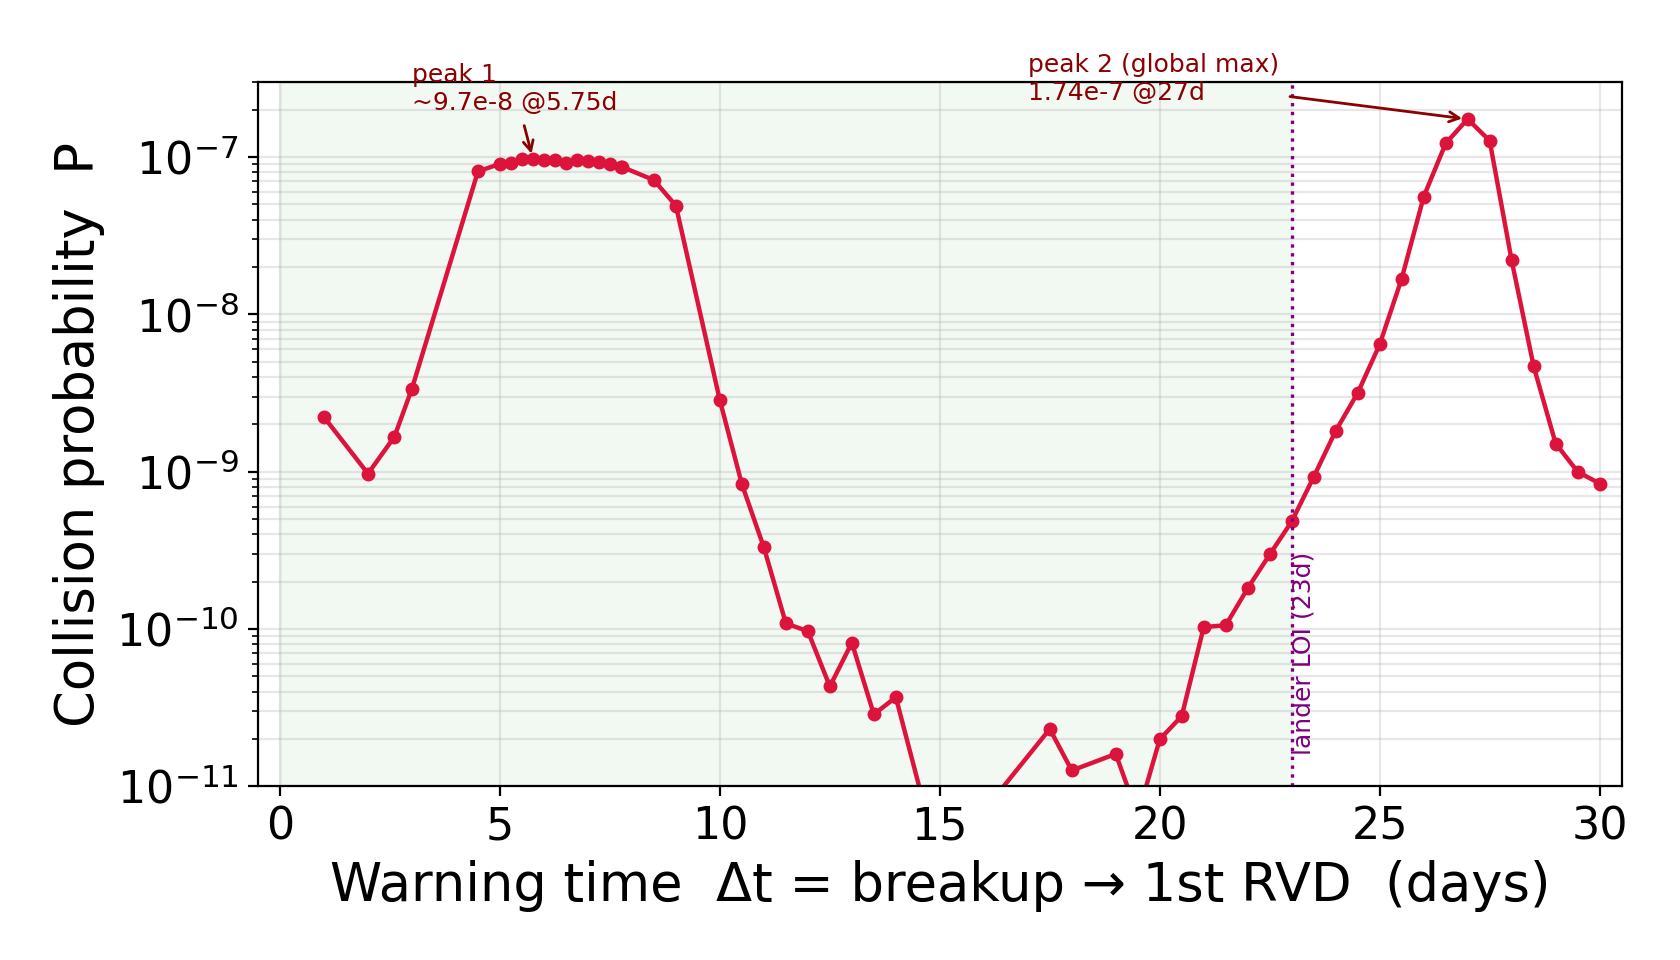
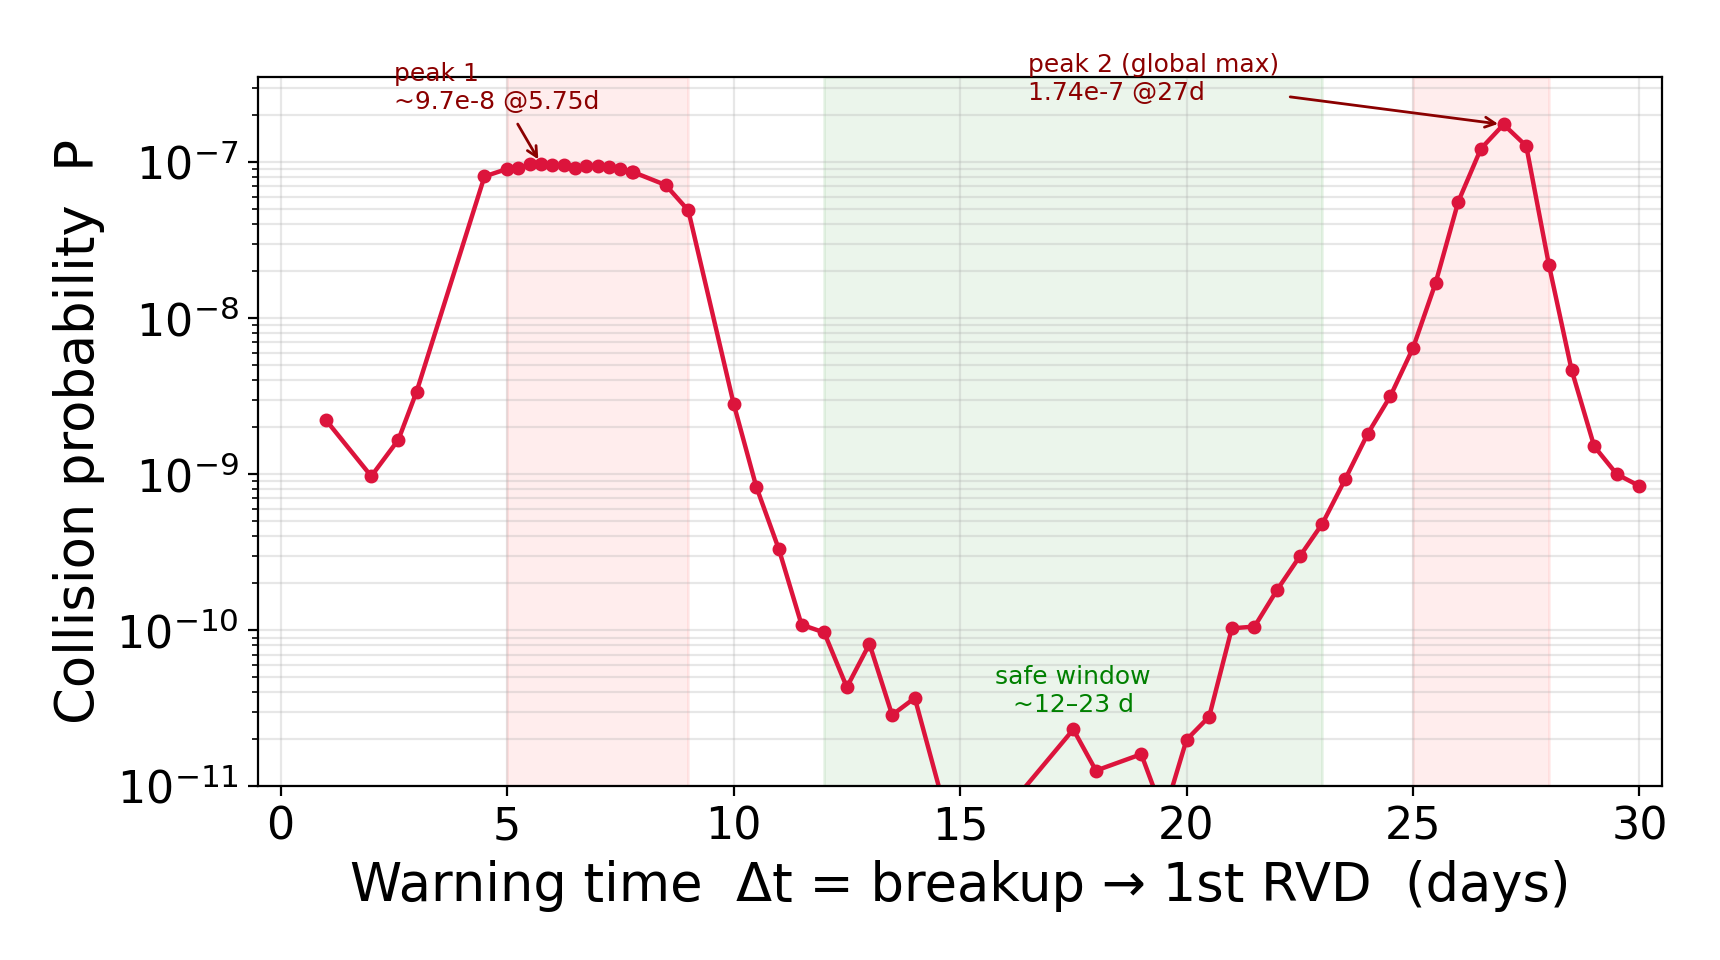
修正Δt范围理解: Δt>0为唯一约束(规避规划), 删除错误的[0,23d]限制
- 双峰均有效: 危险窗5-9d(峰1)与25-28d(峰2,全局最大1.74e-7); 安全窗12-23d
- NEW_CONTRIBUTIONS.md ⚠️块/§5/结语改正为规避规划框架
- figures/sweep_complete.png 重画(危险窗红/安全窗绿, 无误导性[0,23]边界)

diff --git a/fig_sweep_complete.py b/fig_sweep_complete.py
@@ -1,18 +1,19 @@
 # -*- coding: utf-8 -*-
-"""完整 0-30d 双峰 Δt 曲线 (拼接). 峰1~5-7d, 深谷, 峰2~27d(全局最大)。"""
-import numpy as np, matplotlib.pyplot as plt
-z=np.load('sweep_complete.npz'); dt,P=z['dt'],z['P']; m=P>0
-fig,ax=plt.subplots(figsize=(8.4,4.8))
+"""完整 0-30d 双峰 Δt 曲线. 危险窗(峰1 5-9d, 峰2 25-28d) + 安全窗(谷 12-23d)。Δt>0 为唯一约束。"""
+import os, numpy as np, matplotlib.pyplot as plt
+f='sweep_complete.npz' if os.path.exists('sweep_complete.npz') else 'data/sweep_complete.npz'
+z=np.load(f); dt,P=z['dt'],z['P']; m=P>0
+fig,ax=plt.subplots(figsize=(8.6,4.8))
+ax.axvspan(5,9,color='red',alpha=0.07); ax.axvspan(25,28,color='red',alpha=0.07)
+ax.axvspan(12,23,color='green',alpha=0.08)
 ax.semilogy(dt[m],P[m],'-o',color='crimson',ms=4,lw=1.6)
-ax.axvline(23.0,ls=':',color='purple',lw=1.2); ax.text(23.0,1.4e-11,' lander LOI (23d)',color='purple',fontsize=9,rotation=90,va='bottom')
-ax.axvspan(0,23,color='green',alpha=0.05)
-i1=np.argmax(P[(dt>=4)&(dt<=9)]); 
-ax.annotate('peak 1\n~9.7e-8 @5.75d',(5.75,9.7e-8),xytext=(3.0,2.0e-7),fontsize=9,color='darkred',
+ax.annotate('peak 1\n~9.7e-8 @5.75d',(5.75,9.7e-8),xytext=(2.5,2.2e-7),fontsize=9,color='darkred',
             arrowprops=dict(arrowstyle='->',color='darkred'))
-ax.annotate('peak 2 (global max)\n1.74e-7 @27d',(27,1.74e-7),xytext=(17,2.3e-7),fontsize=9,color='darkred',
+ax.annotate('peak 2 (global max)\n1.74e-7 @27d',(27,1.74e-7),xytext=(16.5,2.5e-7),fontsize=9,color='darkred',
             arrowprops=dict(arrowstyle='->',color='darkred'))
+ax.text(17.5,3e-11,'safe window\n~12–23 d',ha='center',fontsize=9,color='green')
 ax.set_xlabel('Warning time  Δt = breakup → 1st RVD  (days)')
 ax.set_ylabel('Collision probability  P')
-ax.set_ylim(1e-11,3e-7); ax.set_xlim(-0.5,30.5); ax.grid(alpha=0.3,which='both')
-fig.tight_layout(); fig.savefig('sweep_complete.png',dpi=200)
-print('[saved] sweep_complete.png')
+ax.set_ylim(1e-11,3.5e-7); ax.set_xlim(-0.5,30.5); ax.grid(alpha=0.3,which='both')
+fig.tight_layout(); os.makedirs('figures',exist_ok=True); fig.savefig('figures/sweep_complete.png',dpi=200)
+print('[saved] figures/sweep_complete.png')